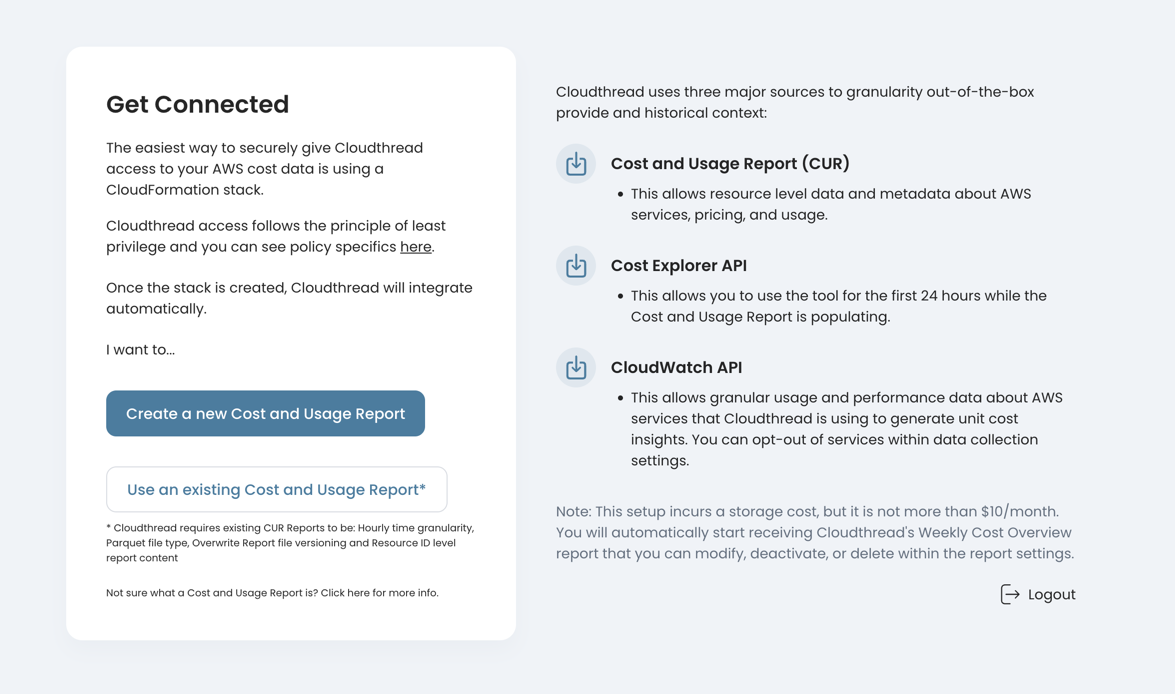
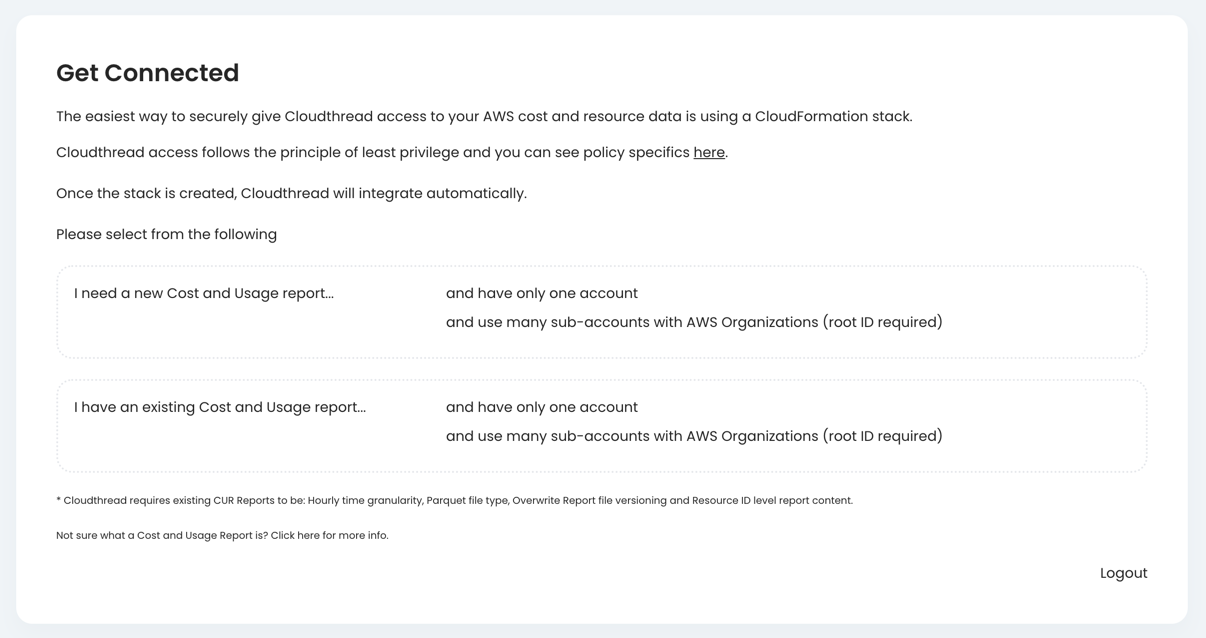
GITBOOK-65: Syncronize-git

diff --git a/guides/connecting-aws-account.md b/guides/connecting-aws-account.md
@@ -26,6 +26,12 @@ Cloudthread is using a delegated access role to read data from your account into
 * [CloudWatch](https://aws.amazon.com/cloudwatch/) metrics
 * [AWS Simple Storage](https://aws.amazon.com/s3) (S3)
   * To read saved CUR files
+* AWS Services (EC2, RDS, ElastiCache, OpenSearch, etc.)
+  * To generate usage optimization recommendations
+* [AWS Trusted Advisor](http://localhost:5000/s/Q8QqeF6WFPo2rNkc3ND6/the-basics/collections) (if enabled)
+  * To gather cost optimization recommendations suggested by AWS
+* [AWS Compute Optimizer](https://docs.aws.amazon.com/compute-optimizer/latest/ug/what-is-compute-optimizer.html)
+  * To gather compute optimization recommendations suggested by AWS
 
 {% hint style="info" %}
 In more detail, Cloudthread needs roughly **5 sets** of permissions / actions:
@@ -57,13 +63,15 @@ In order for Cloudthread start functioning and delivering value, AWS Management 
 
 After your account is [created](https://app.core.cloudthread.io/sign-up/) and confirmed via email, you'll be prompted to get connected to your AWS environment through either creating a new Cost and Usage Report (CUR) or using the existing one.
 
-![Connect Cloudthread via CF Stack](../.gitbook/assets/connecting-aws-account-1-cf-stack-page.png)
+<figure><img src="../.gitbook/assets/connecting-aws-account-1-cf-stack-page.png" alt=""><figcaption><p>Connect Cloudthread via CF Stack</p></figcaption></figure>
 
 ### 2. Choose an integration option
 
-#### a. Create a new Cost and Usage Report
+#### a. You do not have any existing Cost and Usage Report (or want to use a new one)
 
-This is a **default** option, choose it if:
+<figure><img src="../.gitbook/assets/connecting-aws-account-2-new-report.png" alt=""><figcaption></figcaption></figure>
+
+Choose this option if:
 
 * You **do not have** Cost and Usage Report set up for your AWS billing account
 * You **have** Cost and Usage Report set up for your AWS billing account, but it is not corresponding to the following settings:
@@ -71,14 +79,28 @@ This is a **default** option, choose it if:
   * **Parquet** file type
   * **Overwrite Report** file versioning
   * **Resource ID** level
-* You **have** Cost and Usage Report set up for your AWS billing account, but want a clean state for Cloudthread integration
-* You **do not know** if the Cost and Usage Report set up for your AWS billing account, or unsure about the settings – don't worry, **Cloudthread setup will not mess anything up**
+* You **have** Cost and Usage Report set up with settings above for your AWS billing account, but do not want to use it for some reason
 
-<figure><img src="../.gitbook/assets/connecting-aws-account-2-cf-stack-page-cur-not-exist.png" alt=""><figcaption><p>Integration through new Cost and Usage Report</p></figcaption></figure>
+**a.1. You have only one account to integrate**
 
-#### b. Use an existing Cost and Usage Report
+<figure><img src="../.gitbook/assets/connecting-aws-account-3-go-to-template.png" alt=""><figcaption></figcaption></figure>
 
-Choose this option **only** if:
+
+
+**a.2. You have many accounts managed by** [**AWS Organizations**](https://docs.aws.amazon.com/organizations/latest/userguide/orgs\_introduction.html)
+
+1. Input your [Root ID](https://docs.aws.amazon.com/organizations/latest/userguide/orgs\_getting-started\_concepts.html)
+2. Proceed to CloudFormation stack setup
+
+<figure><img src="../.gitbook/assets/connecting-aws-account-4-root-id.png" alt=""><figcaption></figcaption></figure>
+
+<figure><img src="../.gitbook/assets/connecting-aws-account-3-go-to-template.png" alt=""><figcaption></figcaption></figure>
+
+#### b.  You have an existing Cost and Usage Report set up and want to use it
+
+<figure><img src="../.gitbook/assets/connecting-aws-account-7-existing-report.png" alt=""><figcaption></figcaption></figure>
+
+Choose this option if:
 
 * You **have** Cost and Usage Report set up for your AWS billing account, and it corresponds to the following settings:
   * **Hourly** time granularity
@@ -86,19 +108,28 @@ Choose this option **only** if:
   * **Overwrite Report** file versioning
   * **Resource ID** level
 
+b.1. You have only one account to integrate
+
+* Input the details of your Cost and Usage report
+* Proceed to CloudFormation stack setup
+
+<figure><img src="../.gitbook/assets/connecting-aws-account-5-report-details.png" alt=""><figcaption></figcaption></figure>
+
+<figure><img src="../.gitbook/assets/connecting-aws-account-3-go-to-template.png" alt=""><figcaption></figcaption></figure>
+
+b.2. You have many accounts managed by [AWS Organizations](https://docs.aws.amazon.com/organizations/latest/userguide/orgs\_introduction.html)
+
+* Input your [Root ID](https://docs.aws.amazon.com/organizations/latest/userguide/orgs\_getting-started\_concepts.html)
+* Input the details of your Cost and Usage report
+* Proceed to CloudFormation stack setup
+
+<figure><img src="../.gitbook/assets/connecting-aws-account-6-org-report-details.png" alt=""><figcaption></figcaption></figure>
+
+<figure><img src="../.gitbook/assets/connecting-aws-account-3-go-to-template.png" alt=""><figcaption></figcaption></figure>
+
 {% hint style="info" %}
 Choosing an existing Cost and Usage Report for Cloudthread integration has an advantage of the **full historical data**, which will be missing in case of the new report creation. However, even with the new CUR the **historical backfill is possible**, and we will help you to arrange it with your AWS TAM.
 {% endhint %}
-
-<div>
-
-<figure><img src="../.gitbook/assets/connecting-aws-account-3-cf-stack-page-cur-exist.png" alt=""><figcaption><p>Existing Cost and Usage Report information</p></figcaption></figure>
-
- 
-
-<figure><img src="../.gitbook/assets/connecting-aws-account-4-cf-stack-page-cur-exist.png" alt=""><figcaption><p>Integration through new Cost and Usage Report</p></figcaption></figure>
-
-</div>
 
 {% hint style="info" %}
 More on the properties of CUR and where to find them:
@@ -135,24 +166,32 @@ If you chose [Use an existing Cost and Usage Report](connecting-aws-account.md#b
 
 Once you initiate CF stack creation, it will take up to an hour to setup the required resources and policies for Cloudthread to generate initial insights. Your AWS console will show something like this:
 
-![AWS console after CF stack launch](../.gitbook/assets/connecting-aws-account-2-aws-cf-screen-2.png)
+![AWS console after CF stack launch](../.gitbook/assets/connecting-aws-account-3-aws-cf-screen-2.png)
+
+<figure><img src="../.gitbook/assets/connecting-aws-account-8-success.png" alt=""><figcaption></figcaption></figure>
 
 ### 5. Come back to Cloudthread App
 
 Once the initial setup is complete, you will be able to see first cost insights in the app.
 
-![Cloudthread App](../.gitbook/assets/connecting-aws-account-6-summary-dash.png)
+<figure><img src="../.gitbook/assets/connecting-aws-account-9-welcome.png" alt=""><figcaption><p>Cloudthread App Welcome</p></figcaption></figure>
 
 {% hint style="info" %}
-**"Initial" cost insights**
+AWS Cost and Usage Report (CUR) is being created (which can take up to 48 hours).
+{% endhint %}
 
-Cloudthread is using [AWS Cost Explorer](https://aws.amazon.com/aws-cost-management/aws-cost-explorer/) API service to supply cost insights while more detailed AWS Cost and Usage Report (CUR) is being created (which can take up to 48 hours).
+<figure><img src="../.gitbook/assets/connecting-aws-account-10-welcome-dash.png" alt=""><figcaption><p>Cloudthread Inltial Dashboard</p></figcaption></figure>
+
+{% hint style="warning" %}
+Some sections of the app are grayed out right after the integration due to CUR integration timeline.&#x20;
 {% endhint %}
 
 This means that you'll have high level cost analytics available through the Cost Explorer API immediately when you login and that more granular resource level data will only be available when CUR data is ready.
 
-{% hint style="warning" %}
+{% hint style="info" %}
 Once the CUR file is ready Cloudthread will **notify** you, and you will be able to see deeper insights on the platform.
 {% endhint %}
+
+![Cloudthread App](../.gitbook/assets/connecting-aws-account-11-dash.png)
 
 Often, when CUR file is created it does not have all the historical data – your AWS support must be contacted to **backfill** it.

diff --git a/guides/ingesting-custom-data-1.md b/guides/ingesting-custom-data-1.md
@@ -15,9 +15,9 @@ Adding an Events Overlay to your absolute cloud cost chart allows to:
 
 [events-overlay.md](../fundamentals/cost-transparency/events-overlay.md "mention") relies on [custom-data-api.md](../fundamentals/custom-data-api.md "mention") for the events data upload. Below are the instructions:
 
-1. Please, refer to the [API](https://app.gitbook.com/o/TmVItW5TwUC23RxcuDg9/s/KuhDuXL0YPX22VMOHZWV/ "mention") documentation for detailed instructions on how to setup a data stream
+1. Please, refer to the [API](http://localhost:5000/o/TmVItW5TwUC23RxcuDg9/s/KuhDuXL0YPX22VMOHZWV/ "mention") documentation for detailed instructions on how to setup a data stream
 2. Once you have set up the data stream, you will be able to use the **events data stream objects**
-3. Go to the **** [costs-overview.md](../fundamentals/cost-transparency/costs-overview.md "mention") **** and click on the "Events" checkbox at the top of [#absolute-cost-chart](../fundamentals/cost-transparency/costs-overview.md#absolute-cost-chart "mention")
+3. Go to the [costs-overview.md](../fundamentals/cost-transparency/costs-overview.md "mention") and click on the "Events" checkbox at the top of [#absolute-cost-chart](../fundamentals/cost-transparency/costs-overview.md#absolute-cost-chart "mention")
 4. See the events presented in form of blue vertical lines on the chart
 5. Hover over to the line to see what type of event it is
 6. refer to the table below the chart to learn more about the event

diff --git a/guides/setting-up-alerts-and-reports.md b/guides/setting-up-alerts-and-reports.md
@@ -32,10 +32,10 @@ See [alerts.md](../fundamentals/notifications/alerts.md "mention") for alert exa
 1. Choose **Notification Center** menu item at the bottom part of the menu to the left
 2.  Navigate to **Alerts** section at the top of the screen, you will see the table listing all the alerts set up in your Cloudthread account
 
-    ![](<../.gitbook/assets/setting-up-alerts-and-reports-1-alerts-table (1).png>)
+    ![](../.gitbook/assets/setting-up-alerts-and-reports-1-alerts-table.png)
 3.  Click "Create New Alert" button at the top of the table, you will see the the form with alert settings
 
-    ![](<../.gitbook/assets/image (6) (1).png>)
+    ![](<../.gitbook/assets/image (20).png>)
 4. Choose [cost-view.md](../fundamentals/cost-transparency/cost-view.md "mention") or [unit-metric.md](../fundamentals/unit-metrics/unit-metric.md "mention") that you want the alert to be applied to from the list
 5. Specify the alert type based on the threshold type you want to apply – Absolute or Relative
    * **Absolute** thresholds are associated with a specific, absolute number (e.g. alert when costs go above $10)

diff --git a/fundamentals/unit-metrics/unit-metrics-lab.md b/fundamentals/unit-metrics/unit-metrics-lab.md
@@ -22,7 +22,7 @@ This is the top pane of the page that includes:
 
 #### Date Picker
 
-![](<../../.gitbook/assets/date-picker (2).png>)
+![](<../../.gitbook/assets/date-picker (1) (2).png>)
 
 #### Settings Pane
 
@@ -32,7 +32,7 @@ Filter pane in Unit Metrics Overview designed for customizing unit metrics (edit
 Cloudthread allows for complex filtering of AWS cost data across **Account**, **Region**, **Service** and **Tag** dimensions. Both **AND** and **OR** filter conditions are supported as well as **IS** and **IS NOT** clauses.
 {% endhint %}
 
-![](<../../.gitbook/assets/image (4).png>)
+![](<../../.gitbook/assets/image (4) (2).png>)
 
 #### Unit Metric Chart
 
@@ -44,7 +44,7 @@ Unit Metric cost chart with **current** and **previous** period spend vs. time l
 * If current period is May 1, 2022 - May 7, 2022, previous period is April 24, 2022 - April 30, 2022
 {% endhint %}
 
-![](<../../.gitbook/assets/image (13).png>)
+![](<../../.gitbook/assets/image (1) (2).png>)
 
 #### Unit Metric Numerator/Denominator Chart
 

diff --git a/guides/managing-account-and-team.md b/guides/managing-account-and-team.md
@@ -1,6 +1,6 @@
 # Setting Budgets
 
-As you are getting [cost-view.md](../fundamentals/cost-transparency/cost-view.md "mention") created for various stakeholders (see [creating-custom-cost-views.md](creating-custom-cost-views.md "mention") guide for how-to) it is beneficial to have [budgets.md](../fundamentals/cost-transparency/budgets.md "mention") **** visible **** in case you are having such a process in your FinOps practice.
+As you are getting [cost-view.md](../fundamentals/cost-transparency/cost-view.md "mention") created for various stakeholders (see [creating-custom-cost-views.md](creating-custom-cost-views.md "mention") guide for how-to) it is beneficial to have [budgets.md](../fundamentals/cost-transparency/budgets.md "mention") visible in case you are having such a process in your FinOps practice.
 
 Cloudthread platform allows setting one budget per cost view and displaying it on the [#absolute-cost-chart](../fundamentals/cost-transparency/costs-overview.md#absolute-cost-chart "mention").
 

diff --git a/fundamentals/cost-transparency/events-overlay.md b/fundamentals/cost-transparency/events-overlay.md
@@ -2,6 +2,6 @@
 
 **Events Overlay** allows to display historical events on [#absolute-cost-chart](costs-overview.md#absolute-cost-chart "mention") in [costs-overview.md](costs-overview.md "mention") section for [cost-view.md](cost-view.md "mention").
 
-The events data gets uploaded to the platform through an [API](https://app.gitbook.com/o/TmVItW5TwUC23RxcuDg9/s/KuhDuXL0YPX22VMOHZWV/ "mention") in a time series format, following [ingesting-custom-data.md](../../guides/ingesting-custom-data.md "mention") process.
+The events data gets uploaded to the platform through an [API](http://localhost:5000/o/TmVItW5TwUC23RxcuDg9/s/KuhDuXL0YPX22VMOHZWV/ "mention") in a time series format, following [ingesting-custom-data.md](../../guides/ingesting-custom-data.md "mention") process.
 
 <figure><img src="../../.gitbook/assets/events-overlay-1.png" alt=""><figcaption><p>Events Overlay</p></figcaption></figure>

diff --git a/guides/ingesting-custom-data.md b/guides/ingesting-custom-data.md
@@ -13,5 +13,5 @@ Adding a custom data integration allows to:
 
 ## Detailed instructions <a href="#detailed-instructions" id="detailed-instructions"></a>
 
-1. Please, refer to the [API](https://app.gitbook.com/o/TmVItW5TwUC23RxcuDg9/s/KuhDuXL0YPX22VMOHZWV/ "mention") documentation for detailed instructions on how to setup a data stream
+1. Please, refer to the [API](http://localhost:5000/o/TmVItW5TwUC23RxcuDg9/s/KuhDuXL0YPX22VMOHZWV/ "mention") documentation for detailed instructions on how to setup a data stream
 2. Once you have set up the data stream, you will be able to see the **custom data stream token** in the [#settings-pane](../fundamentals/unit-metrics/unit-metrics-lab.md#settings-pane "mention") of [unit-metrics-lab.md](../fundamentals/unit-metrics/unit-metrics-lab.md "mention") (under Custom data source)

diff --git a/guides/setting-up-teams.md b/guides/setting-up-teams.md
@@ -1,6 +1,6 @@
 # Setting up Teams
 
-Cloudthread platform allows to assign users to [teams.md](../fundamentals/settings/teams.md "mention") **** that have **global filters** enabled, i.e. every user belonging to the Team can see all the data filtered without an ability to remove the filtering.
+Cloudthread platform allows to assign users to [teams.md](../fundamentals/settings/teams.md "mention") that have **global filters** enabled, i.e. every user belonging to the Team can see all the data filtered without an ability to remove the filtering.
 
 This feature allows to restrict the access to the sensitive data across the complex organizational structure.
 

diff --git a/guides/connecting-aws-sub-accounts.md b/guides/connecting-aws-sub-accounts.md
@@ -33,7 +33,7 @@ Connecting sub-accounts to Cloudthread is important in order to:
 5. Login the AWS account you want to integrate
 6. Follow the steps for the CloudFormation stack creation similar to the ones described in [connecting-aws-account.md](connecting-aws-account.md "mention") guide
 
-<figure><img src="../.gitbook/assets/connecting-sub-account-1-single.gif" alt=""><figcaption><p>Connecting single AWS sub-account</p></figcaption></figure>
+<figure><img src="../.gitbook/assets/connecting-sub-account-1-single (1).gif" alt=""><figcaption><p>Connecting single AWS sub-account</p></figcaption></figure>
 
 ### b. Connecting multiple Sub-Accounts
 

diff --git a/fundamentals/notifications/alerts.md b/fundamentals/notifications/alerts.md
@@ -16,4 +16,4 @@ Cloudthread supports **email** and **Slack** alerts. See [setting-up-alerts-and-
 See [slack-integration.md](slack-integration.md "mention") for the instructions on Slack setup.
 {% endhint %}
 
-<figure><img src="../../.gitbook/assets/image (8).png" alt=""><figcaption><p>Cloudthread Slack Alert</p></figcaption></figure>
+<figure><img src="../../.gitbook/assets/image (3) (1).png" alt=""><figcaption><p>Cloudthread Slack Alert</p></figcaption></figure>

diff --git a/fundamentals/cost-transparency/costs-overview.md b/fundamentals/cost-transparency/costs-overview.md
@@ -70,7 +70,7 @@ Absolute cost chart with the **additional** data dimension, but no previous peri
 
 This chart also has a data table attached to see the breakdown in more convenient way and control [drill-down.md](drill-down.md "mention").
 
-![Absolute cost breakdown chart](<../../.gitbook/assets/Screen Cast 2022-05-03 at 8.23.21 PM.gif>)
+![Absolute cost breakdown chart](<../../.gitbook/assets/Screen Cast 2022-05-03 at 8.03.32 PM.gif>)
 
 #### Tag Analyzer
 

diff --git a/fundamentals/unit-metrics/unit-metrics-library.md b/fundamentals/unit-metrics/unit-metrics-library.md
@@ -2,7 +2,7 @@
 
 **Unit Metrics Library** is the section of the app where you can see all the saved [unit-metric.md](unit-metric.md "mention") listed: both custom and predefined ones. It is a convenient entry point into cost efficiency analysis.
 
-![Unit Metrics Library](<../../.gitbook/assets/cost-view-library-1 (2) (1).png>)
+![Unit Metrics Library](../../.gitbook/assets/cost-view-library-1.png)
 
 There are two types of metics in the Library:
 
